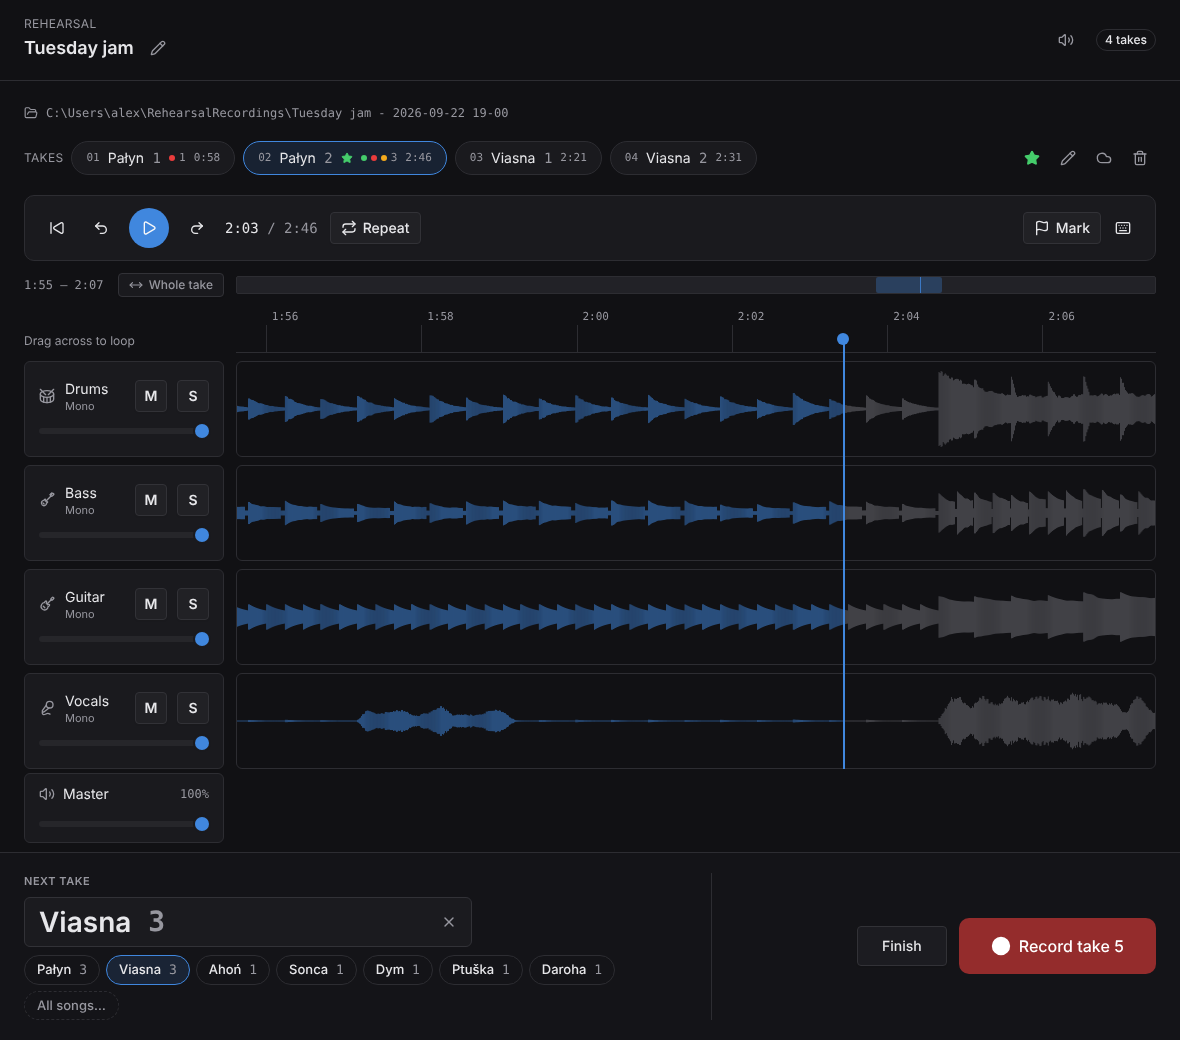
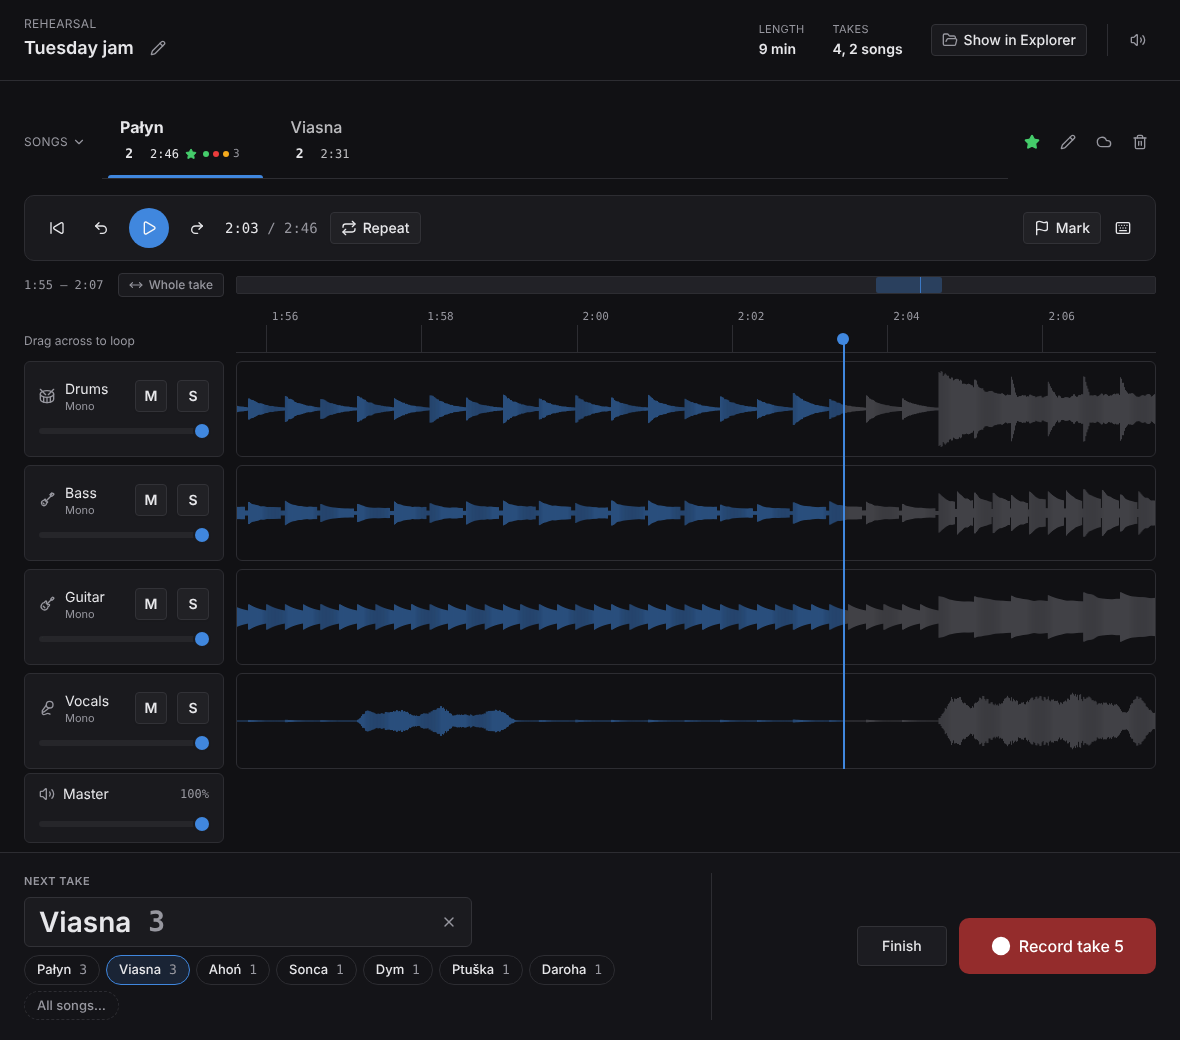
Docs: goes in the player
The guide, the changelog and the README say what the strip's song tabs, their
columns, the kept place and ↑ ↓ do, and what the window's header now shows in
place of the folder's path. The rehearsal, player and zoom pictures are taken
again.

Claude-Session: https://claude.ai/code/session_01DdZwGPxCQwCPmJWRSwrAhN

diff --git a/docs/using-it.md b/docs/using-it.md
@@ -107,6 +107,13 @@ stopped short stands out before you read anything.
 Press **Record take**, or Space, to start recording. **Finish** ends the
 rehearsal.
 
+The top of the window says what there is so far, beside the rehearsal's
+name: how long its takes run, how many takes there are and of how many
+songs, how many are in the cloud, and how much of the disk the rehearsal
+uses. **Show in Finder** (**Show in Explorer** on Windows) opens its folder.
+In a narrow window only the length, the takes and the button fit. The player
+in History has the same header.
+
 Left of the button is **Next take**: the name the next take will get, in a
 field of its own, and under it, in two rows, the songs you could play
 instead: tonight's first, as the next go at each ("Pałyn 3"), then the
@@ -180,8 +187,23 @@ markers are saved with the take.
 
 ![A take open in the player, with part of it selected to repeat](screenshots/player.png)
 
-Click a take in the strip at the top to open it. All its tracks play together
-on one timeline, so they always stay in sync.
+The strip at the top has a tab for each song of the evening, in the order
+they were first played, and one for each take with no song. Under a song's
+name is its go that is open, or on another tab the go a click on it opens:
+the song's last go that evening. **Songs** at the start of the strip, or the
+open go's number, opens the tabs out into a column of goes each. Click a go
+in a column to open it. All a take's tracks play together on one timeline,
+so they always stay in sync.
+
+Another go at the same song opens at the same place: the same second, the
+same selection, Repeat on or off, the same zoom, and playing if the last
+one was. Loop the chorus of one go, then open the next to hear the same
+bars. The goes don't line up exactly, but close enough to find a chorus by
+ear. ↑ and ↓ go to the previous and next go at the song the same way.
+Another song's go opens from its start. Opened from a song's page in
+History, the song's column has every go at it from every rehearsal, the
+oldest first, under each rehearsal's day, and ↑ and ↓ go on from one
+rehearsal into the next.
 
 - **Play and pause** with the big button or Space. The arrow keys jump 10
   seconds back and forward, and Home goes back to the start. Click anywhere
@@ -200,9 +222,9 @@ on one timeline, so they always stay in sync.
 - **Mark a moment** with **Mark**, or the M key, while the take plays. Pick
   its label and type a short comment if you like. A new mark has the first
   label in the list (see [Marks and their labels](#marks-and-their-labels)).
-  A mark is drawn in its label's colour on the waveform, and the take's
-  button in the strip shows those colours too, so you can see which takes
-  were marked what without opening them. Click a marker to jump to it.
+  A mark is drawn in its label's colour on the waveform, and the go's line
+  in the strip shows those colours too, so you can see which takes were
+  marked what without opening them. Click a marker to jump to it.
 - **Loop a part:** drag across the tracks to select it, then turn on
   **Repeat**, next to the time, or the loop button beside the selection's
   times. Drag the edges on the ruler to adjust the selection. The cross
@@ -225,8 +247,9 @@ A few things about cropping:
   still shows the shorter length, and the markers stay where the crop moved
   them.
 
-Press Esc to close the take. If it is playing, it goes on playing in the
-list of takes; press Esc again to stop it. While a take is open or playing,
+Press Esc to close the take. With the strip's columns open, the first Esc
+closes them. If the take is playing, it goes on playing in the list of
+takes; press Esc again to stop it. While a take is open or playing,
 Space plays and pauses it instead of starting a new recording.
 
 ### Starring a take
@@ -238,7 +261,7 @@ the strip. Click it again to take it off. A song can have several starred
 takes, and a take with no song can have one too.
 
 A starred take is the green one, in the list of takes and in the evening
-strip, and its button in the strip carries a ★. A mark is about a moment,
+strip, and its line in the player's strip carries a ★. A mark is about a moment,
 whatever its label, and stays a dot on the take's bar. ▶ on a song, rather than
 on a take, plays its newest starred take. The star stays with its take when
 you rename it or crop it, and goes when you delete it.
@@ -500,15 +523,17 @@ While listening:
 |---|---|
 | ← and → | jump 10 seconds back or forward |
 | Home | go back to the start |
+| ↑ and ↓ | the previous or next go at the open song, at the same place |
 | M | add a marker |
 | R | turn Repeat on or off |
 | ? | show the keys |
 
-In History, ↑ and ↓ go through the rehearsals, or the songs in the Songs
-view.
+In History, with no take open, ↑ and ↓ go through the rehearsals, or the
+songs in the Songs view.
 
-Esc goes one step back. It closes a dialog first, then the open take, then a
-take playing in the list of takes, then the screen. On the rehearsal screen it finishes the rehearsal, and asks first
+Esc goes one step back. It closes a dialog first, then the strip's columns,
+then the open take, then a take playing in the list of takes, then the
+screen. On the rehearsal screen it finishes the rehearsal, and asks first
 if there are takes in it. After a take, it asks before discarding the take.
 Esc never stops a recording; press **Stop** for that.
 

diff --git a/CHANGELOG.md b/CHANGELOG.md
@@ -14,6 +14,18 @@ opening.
   delete. Its ★ goes come first, and the marks from the last time it was
   played under them. A song's title on the setup screen, or in a
   rehearsal's overview, opens its page.
+- **Compare goes at the same bar.** The strip over the player has a tab for
+  each song of the evening, and a take with no song has its own; **Songs**
+  opens them out into columns of goes. Another go at the same song opens at
+  the same place, with the same loop, Repeat, zoom and playing, so the
+  chorus of Pałyn 2 and of Pałyn 4 are one click apart; ↑ and ↓ do it too.
+  Opened from a song's page, the song's column has every go at it, the
+  oldest first, from every rehearsal.
+- **The evening at the top of the window.** The player and the rehearsal
+  screen say how long the takes run, how many takes of how many songs, how
+  many are in the cloud and how much of the disk the rehearsal uses, with
+  **Show in Finder** (**Show in Explorer** on Windows) to open its folder,
+  in place of the folder's path.
 
 ## 0.10.0
 

diff --git a/README.md b/README.md
@@ -65,8 +65,9 @@ point at rather than guess. Drag across it to set the repeat region, and zoom
 into it with the wheel when the spot needs finding exactly.
 
 **Markers say what happened, not just where.** A label and a comment — Keep
-this, Went wrong, or one of the band's own — coloured on the timeline and on
-the take's pill, so a glance at the strip says which take has red in it.
+this, Went wrong, or one of the band's own — coloured on the timeline and
+beside each go in the strip over the player, so a glance says which go has
+red in it.
 
 **Tells you what a rehearsal was.** Months later a date and a take count are
 not how anyone recognises an evening, so each one says what was played in it,
